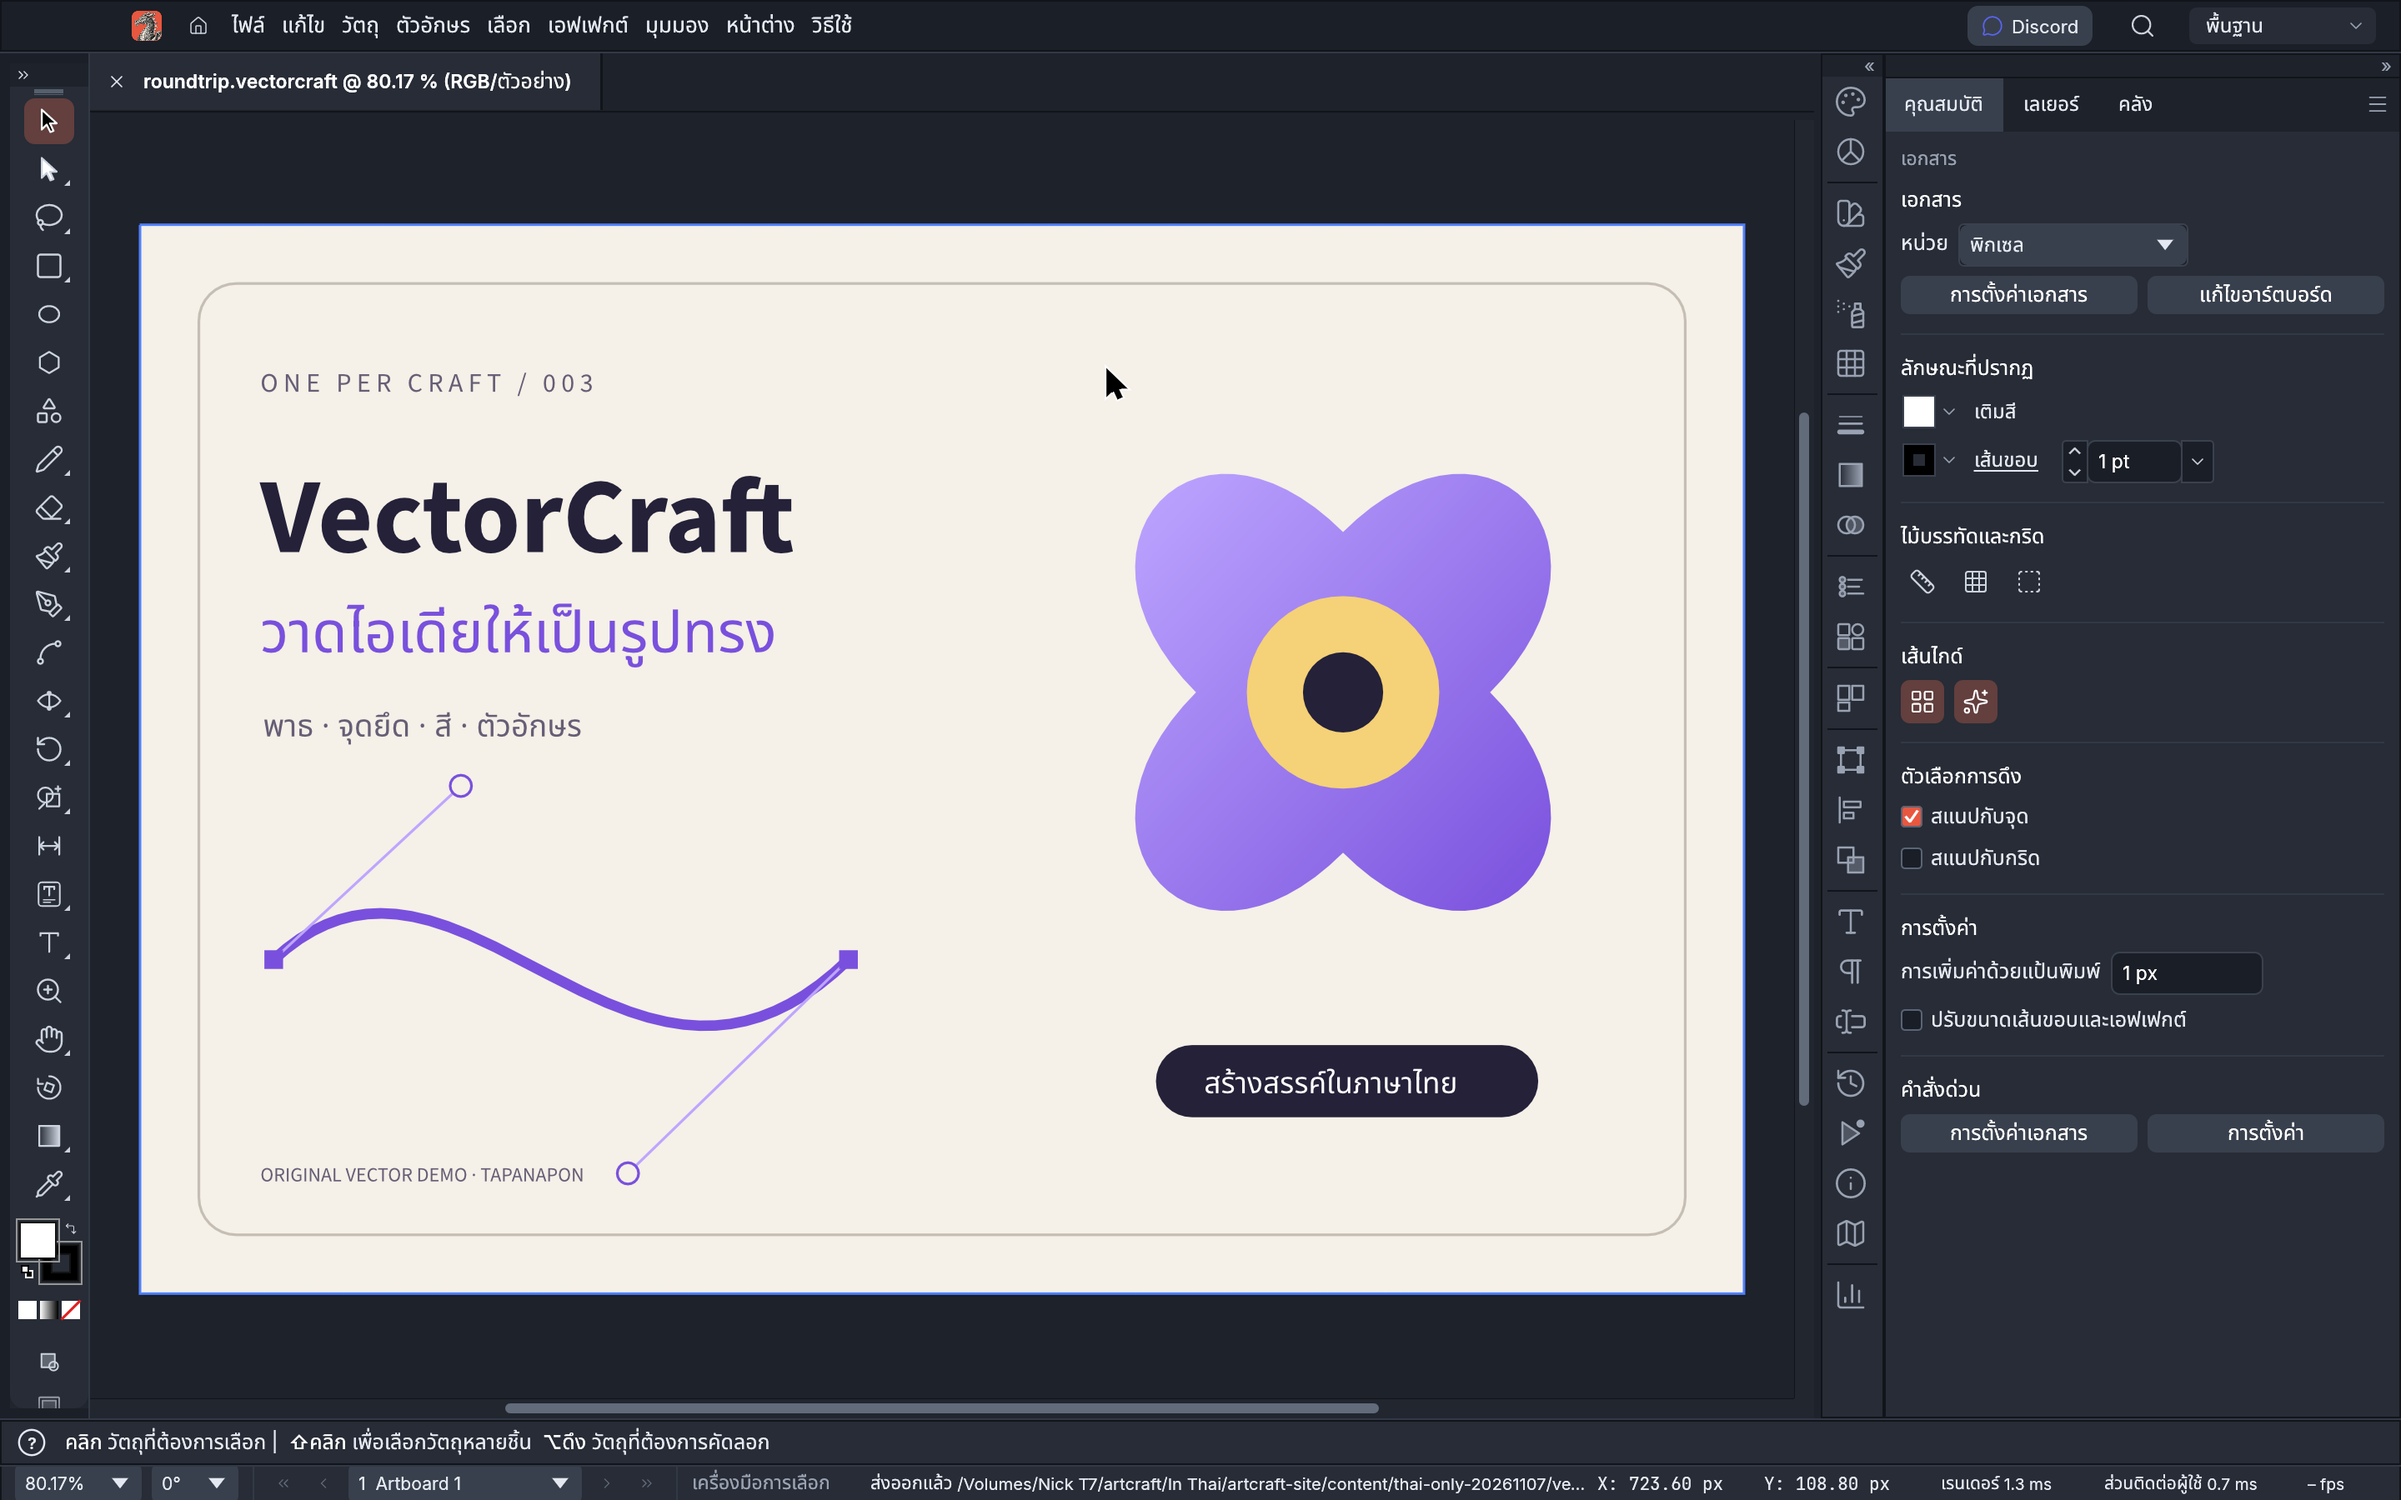
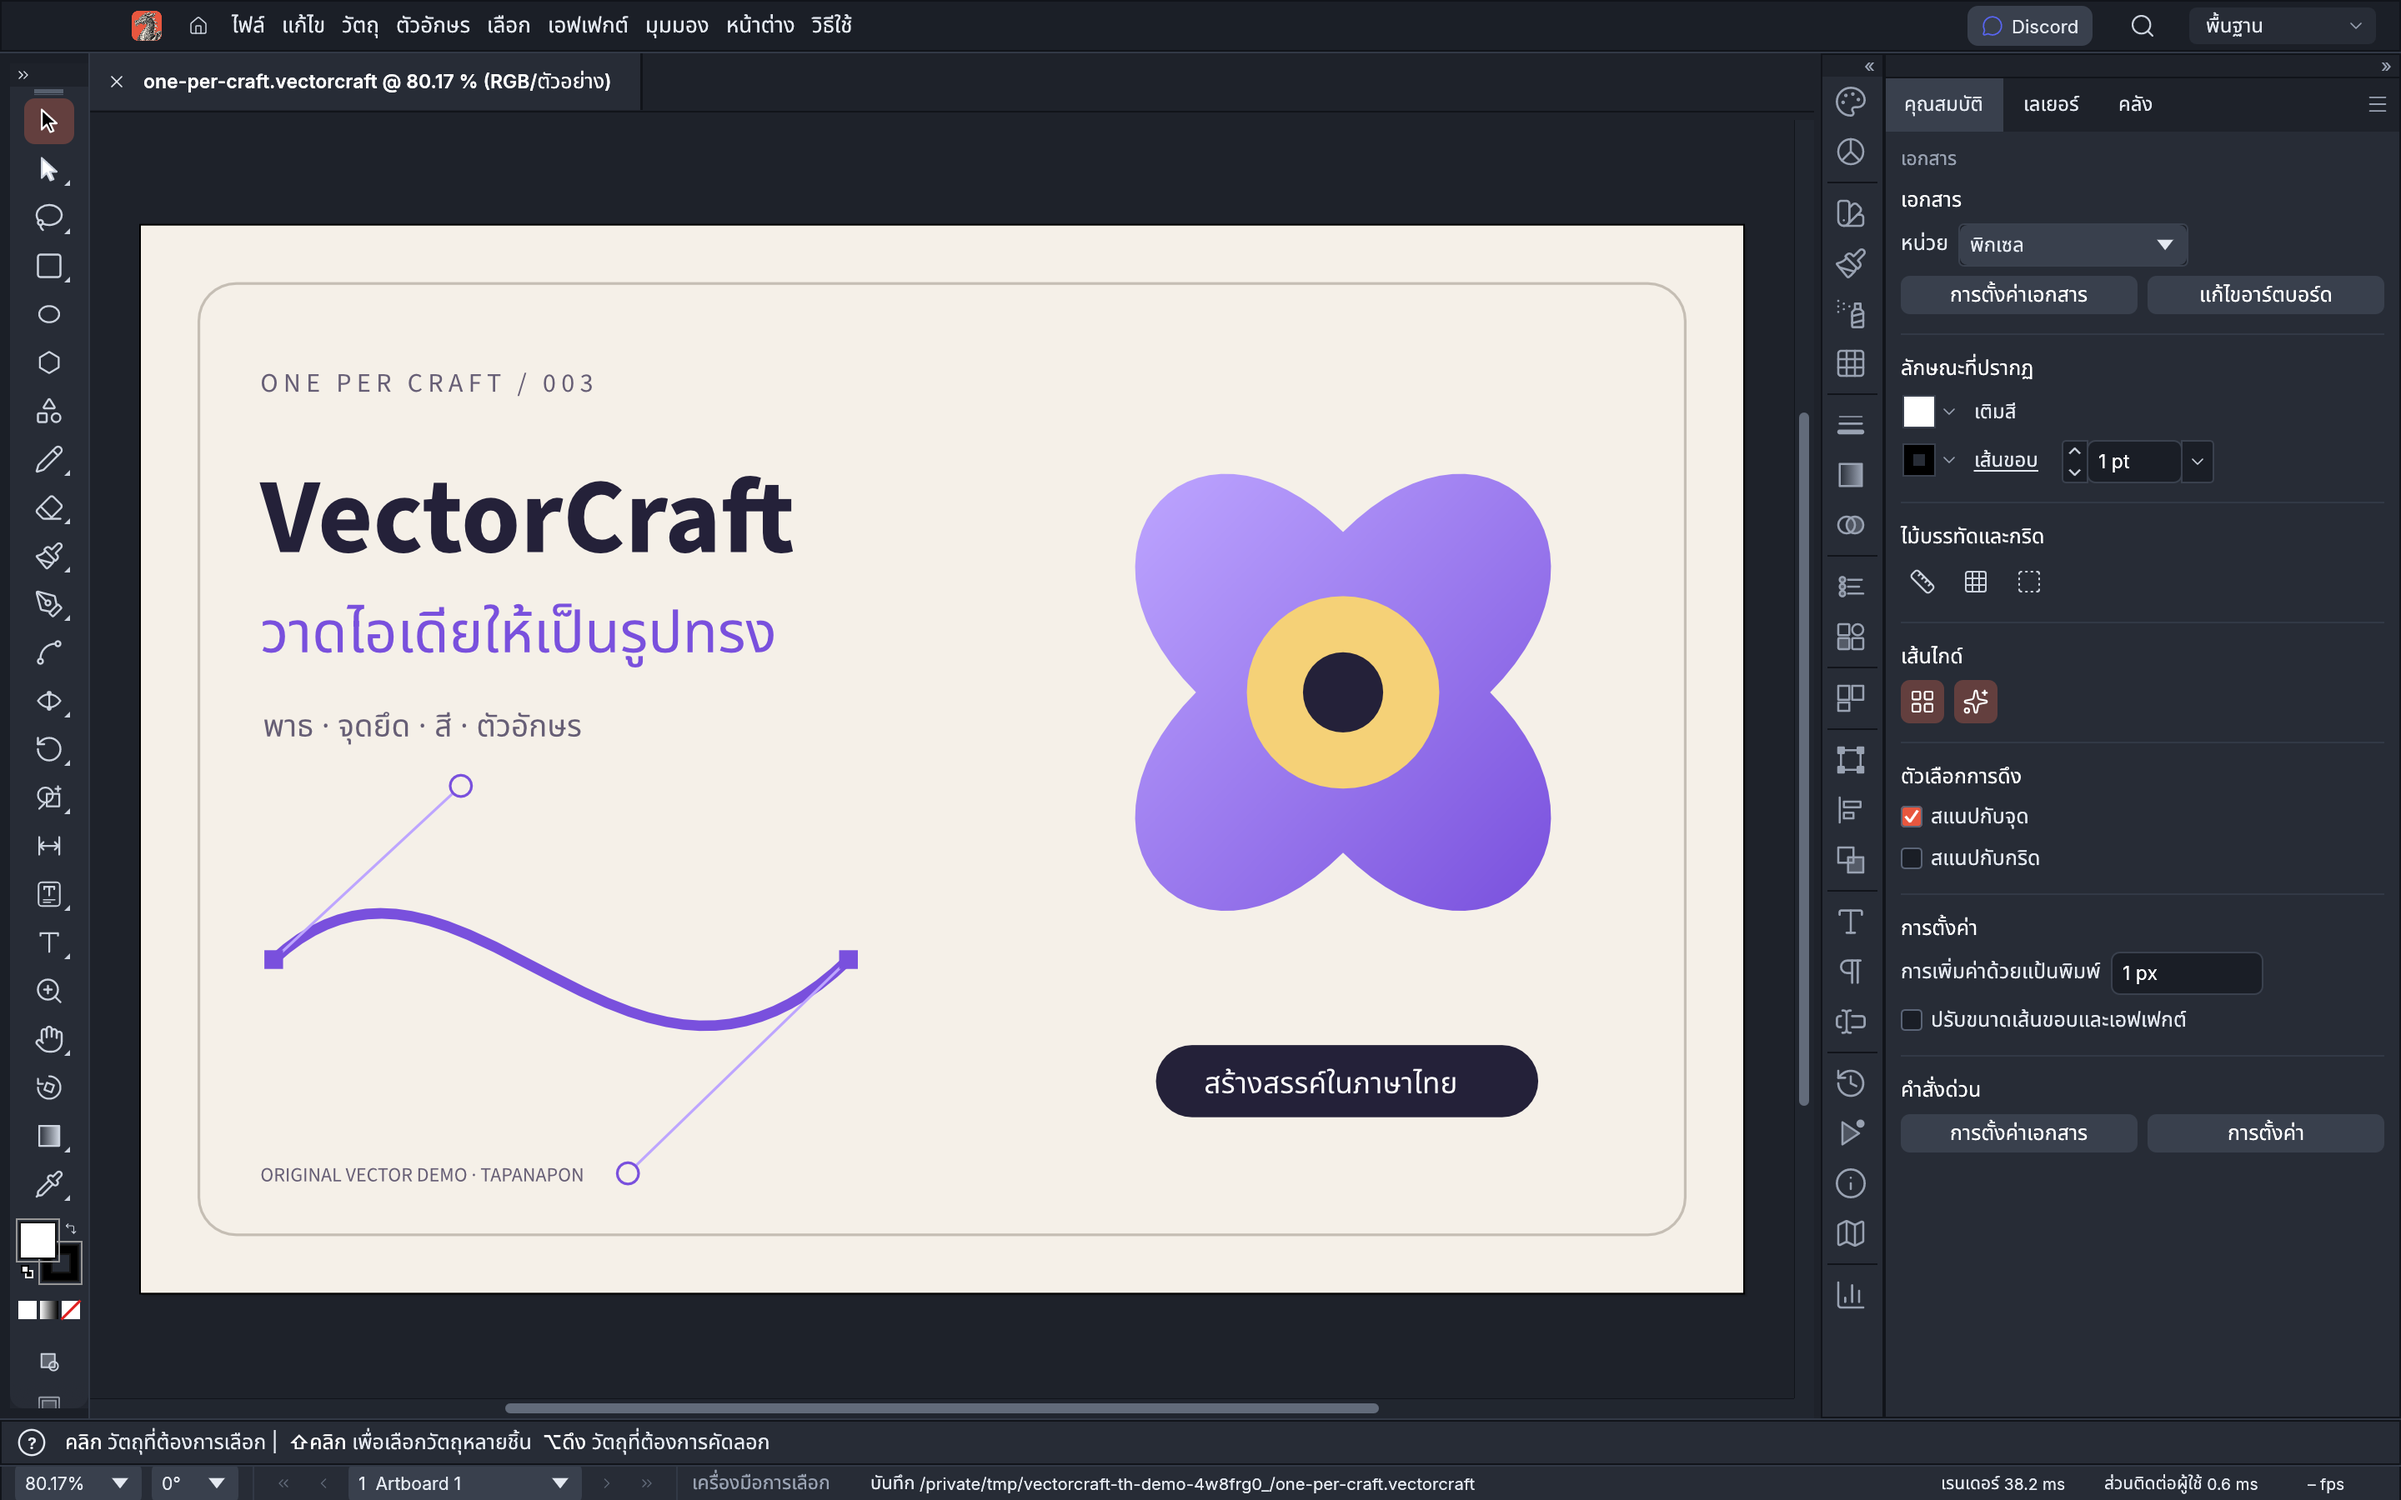
docs: refresh real Thai screenshots with neutral demo paths [skip ci]

Changed region(s): [[0.375, 0.9644, 0.6562, 0.9956], [0.0625, 0.0311, 0.25, 0.0622], [0.75, 0.9644, 0.7812, 0.9956]]

diff --git a/ATTRIBUTION.md b/ATTRIBUTION.md
@@ -13,3 +13,5 @@ VectorCraft TH is an independent localization, not an official or endorsed upstr
 | ArtCraft branding | Upstream docs/brand | Original trademark terms; see docs/brand/LICENSE-brand.txt |
 
 Keep LICENSE-MIT, LICENSE-APACHE, NOTICE and ASSETS.md when redistributing. Translation was machine-assisted locally and edited for terminology; no proprietary application resources were used. The upstream README is preserved as README-upstream.md.
+
+Thai interface screenshots `docs/images/th/vectorcraft-th-workspace.png` and `vectorcraft-th-new-document.png` were captured from the released 0.22.0-th.1 DMG using this fork’s original Thai vector demo. They are unedited native window captures under MIT OR Apache-2.0; upstream UI and branding retain their existing terms. See the adjacent capture proof.
